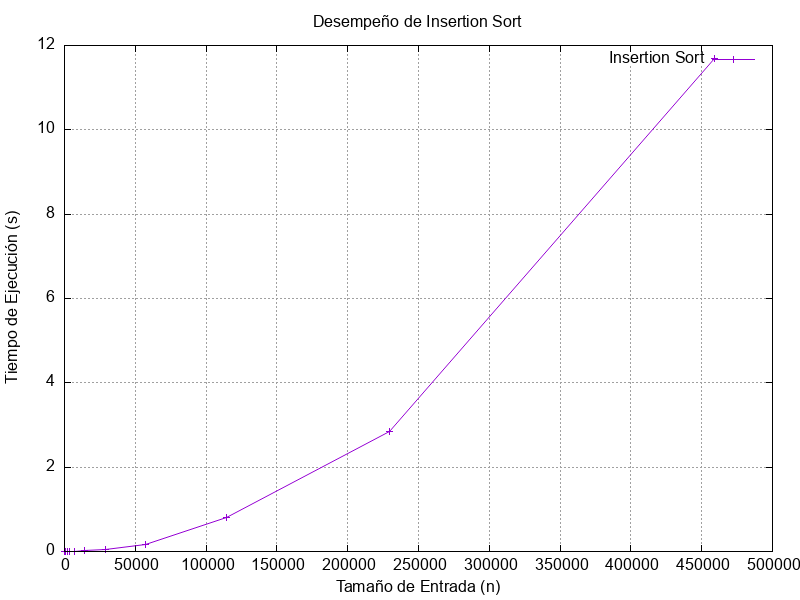
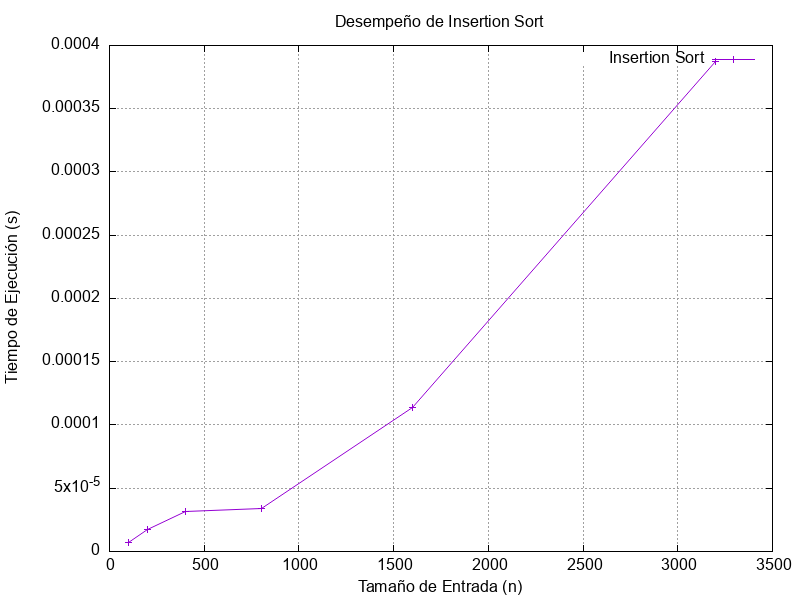
añadiendo medicion de datos

diff --git a/src/take_time.c b/src/take_time.c
@@ -12,9 +12,10 @@ void take_time(void (*func)(int *, int), int *arr, int n, const char *nombre_arc
         return;
     }
 
-    for (int i = 0; i < 17; i++)
+    // medimos tiempos para diferentes tamaños de arreglo (n, 2n, 4n,
+    for (int i = 0; i < 6; i++)
     {
-        int nuevo_tamano = n * pow(2, i);
+        int nuevo_tamano = n * pow(2, i); // tamaños: n, 2n, 4n, 8n
         int *nuevo_arr = (int *)malloc(nuevo_tamano * sizeof(int));
 
         if (nuevo_arr == NULL)
@@ -23,6 +24,7 @@ void take_time(void (*func)(int *, int), int *arr, int n, const char *nombre_arc
             fclose(archivo);
             return;
         }
+
         for (int j = 0; j < nuevo_tamano; j++)
         {
             nuevo_arr[j] = arr[j % n];
